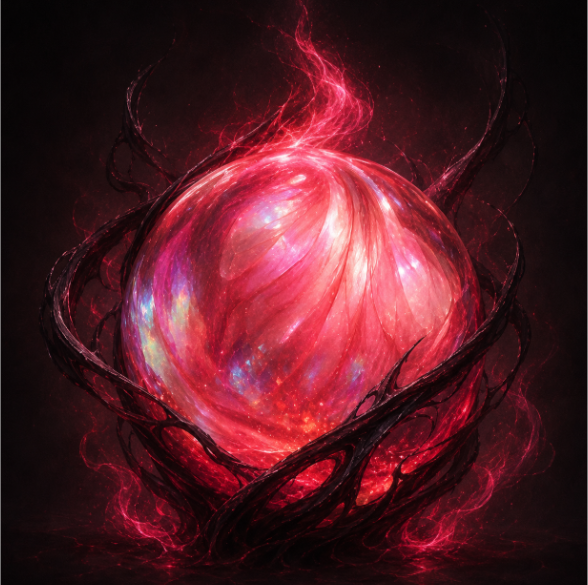
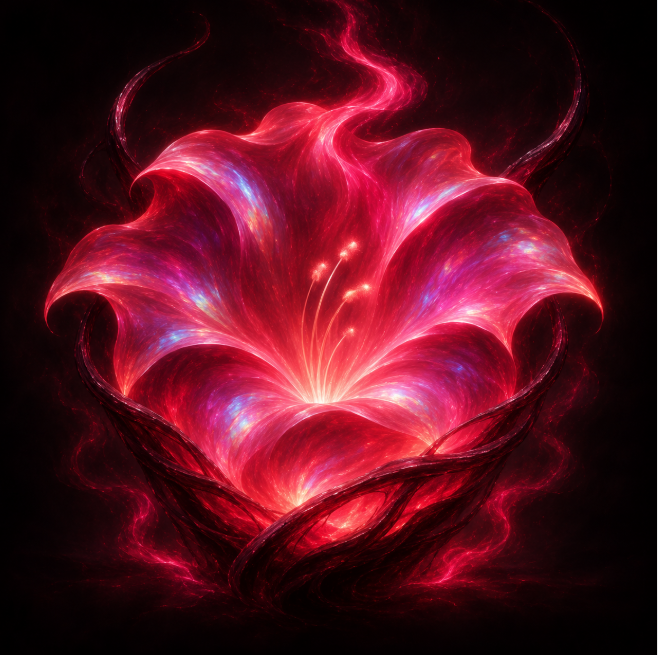
Replace poem art with luminous moonflower illustration

diff --git a/src/components/Poem.tsx b/src/components/Poem.tsx
@@ -45,9 +45,9 @@ export function Poem() {
         >
           <img
             src="/images/demise-back-art.png"
-            alt="Demise back cover art — a crimson orb held by dark, gnarled roots"
-            width={588}
-            height={585}
+            alt="Demise back cover art — a luminous pink moonflower glowing against darkness"
+            width={658}
+            height={655}
           />
         </motion.figure>
 
